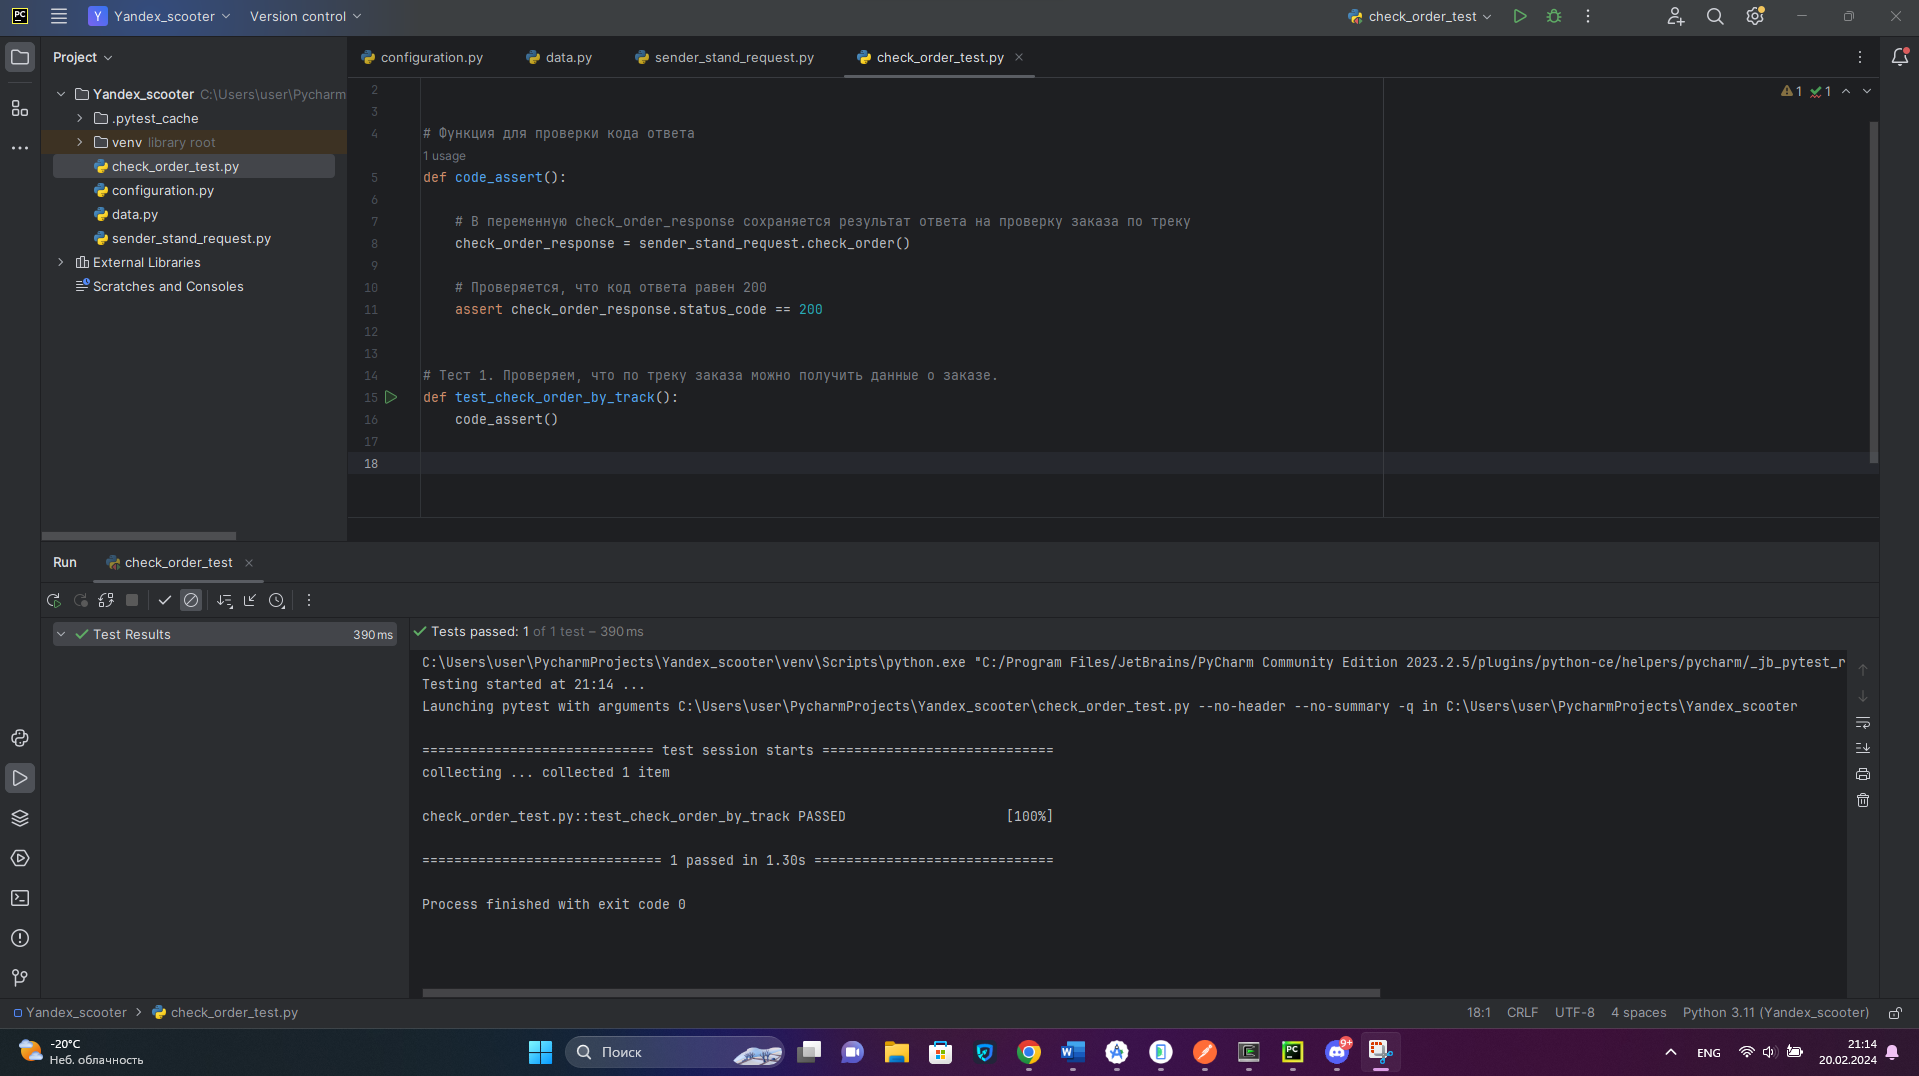
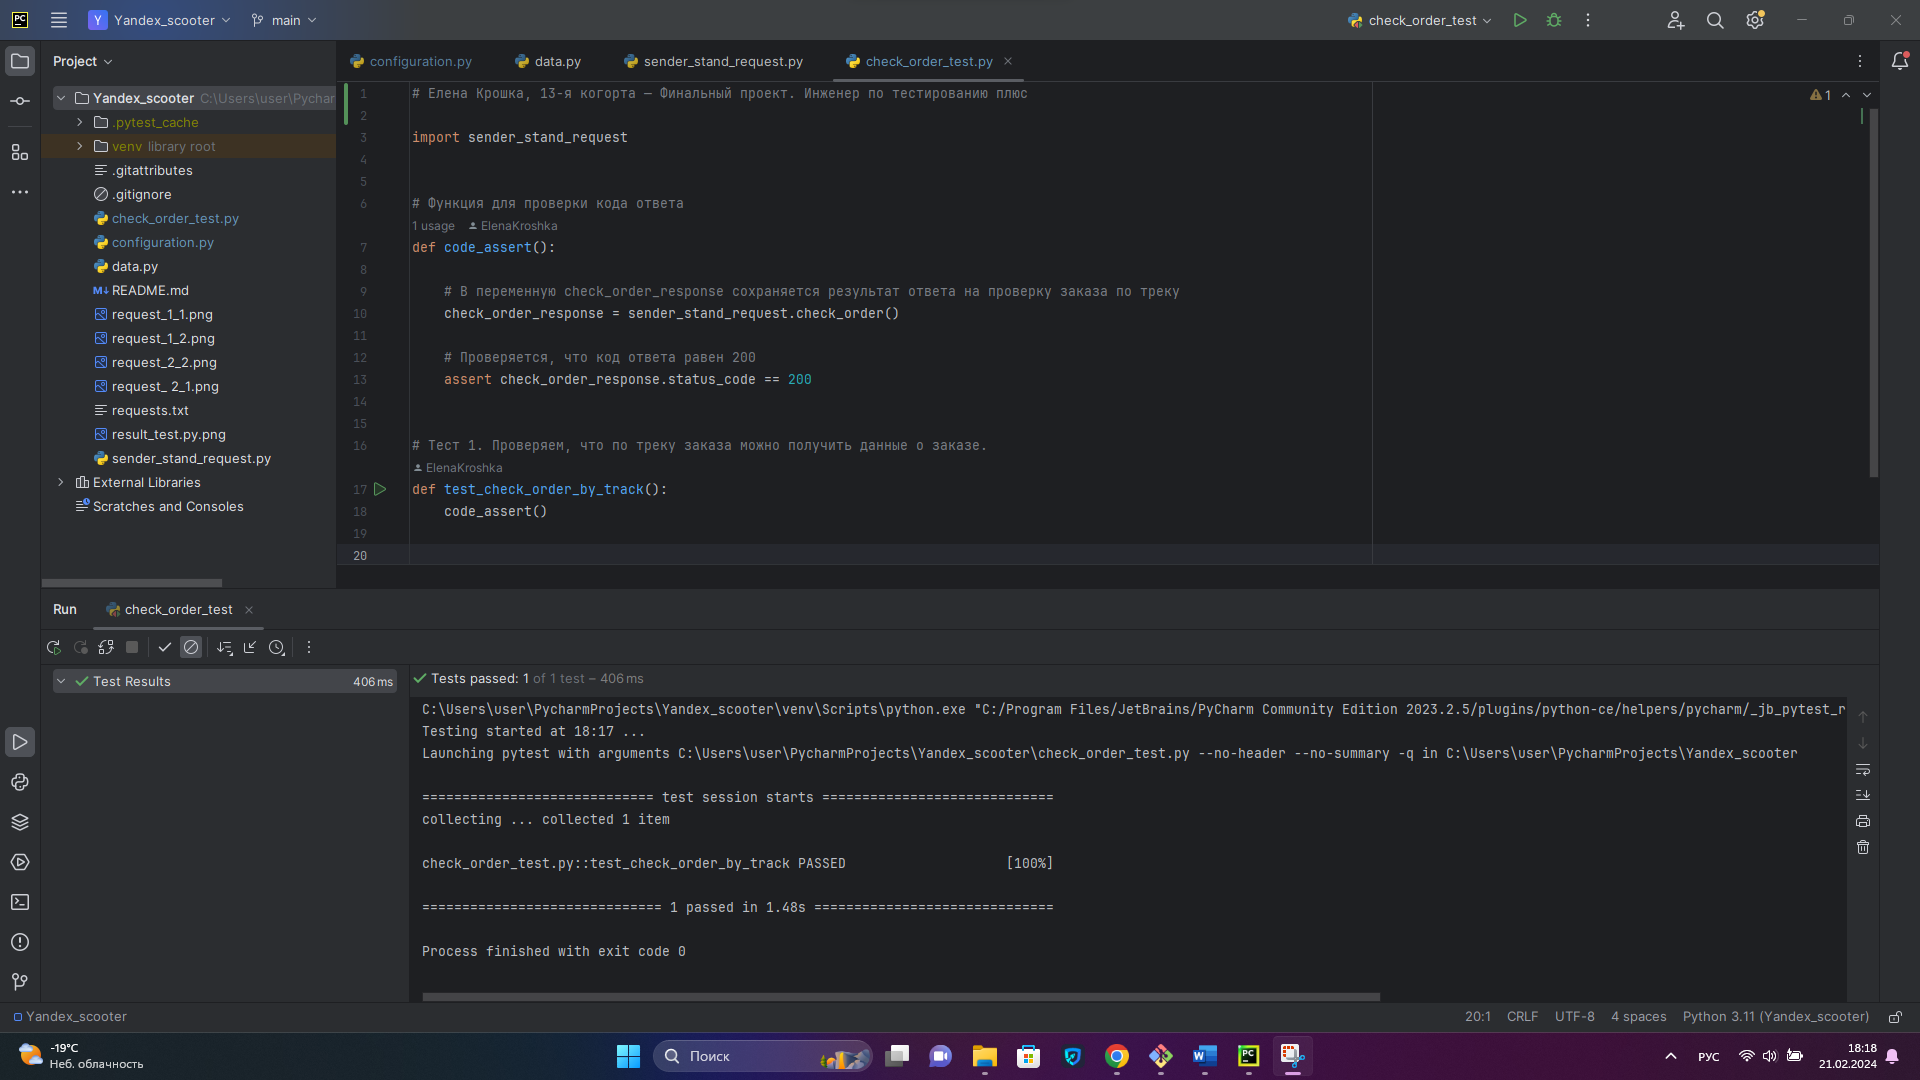
Feature for Yandex scooter
Yandex scooter autotest

diff --git a/configuration.py b/configuration.py
@@ -1,3 +1,3 @@
-URL_SERVICE = "https://b8f3a062-01ec-49ab-aba3-9d2aaa784e85.serverhub.praktikum-services.ru"
+URL_SERVICE = "https://a8361994-b57e-48f6-b0b6-98c1e1904831.serverhub.praktikum-services.ru"
 CREATE_ORDER = "/api/v1/orders"
 GET_ORDER_BY_TRACK = "/api/v1/orders/track"

diff --git a/check_order_test.py b/check_order_test.py
@@ -1,3 +1,5 @@
+# Елена Крошка, 13-я когорта — Финальный проект. Инженер по тестированию плюс
+
 import sender_stand_request
 
 
